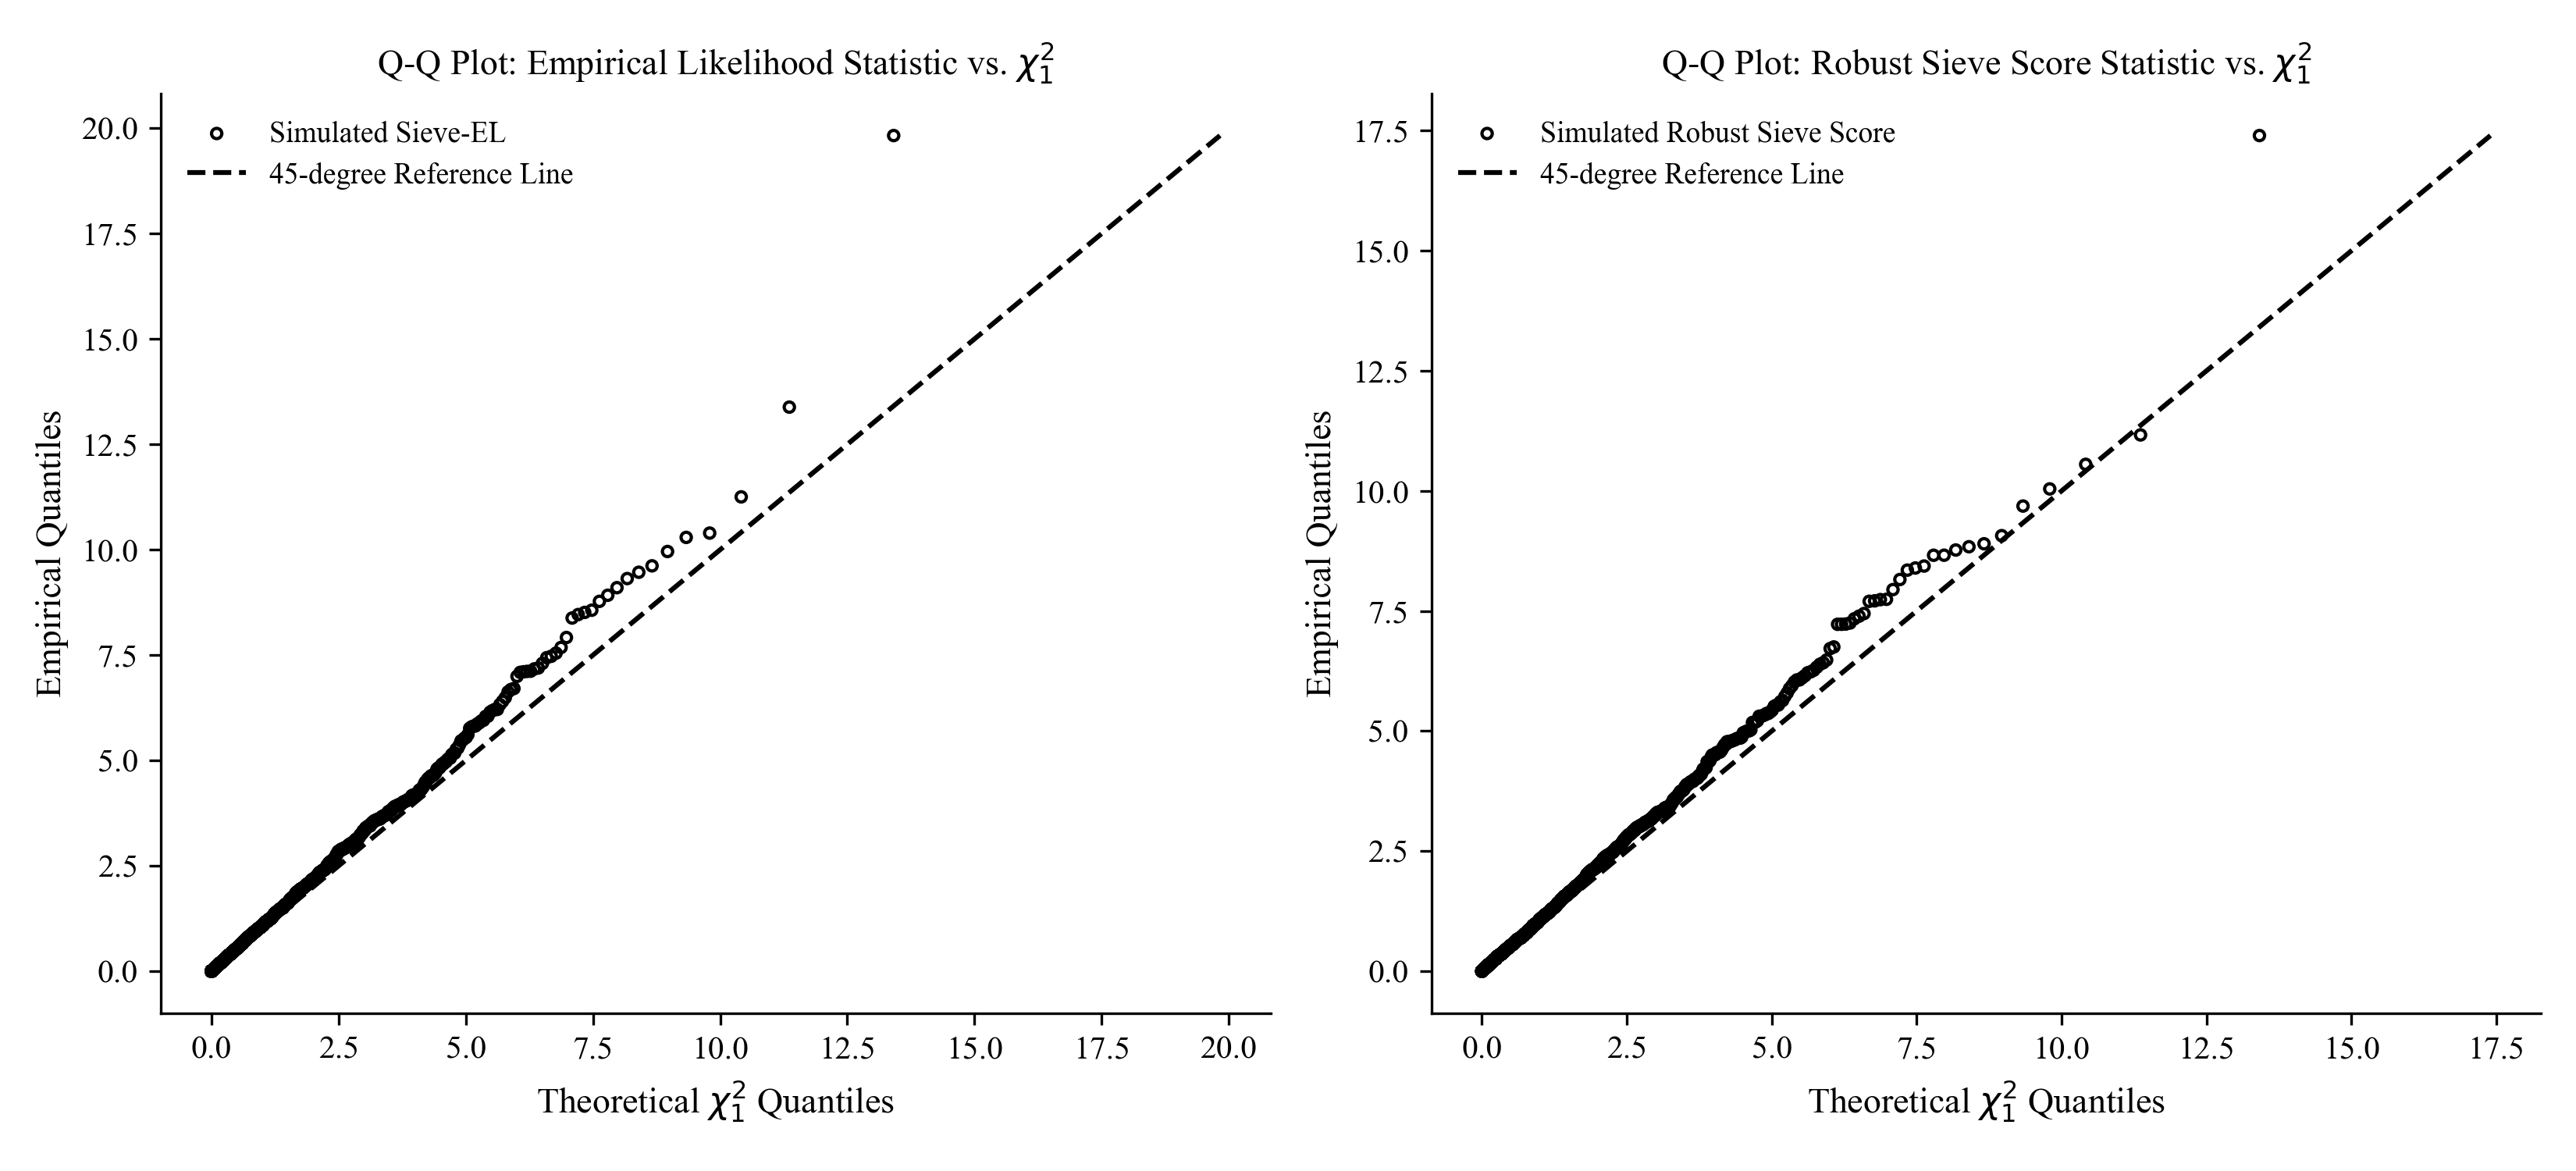
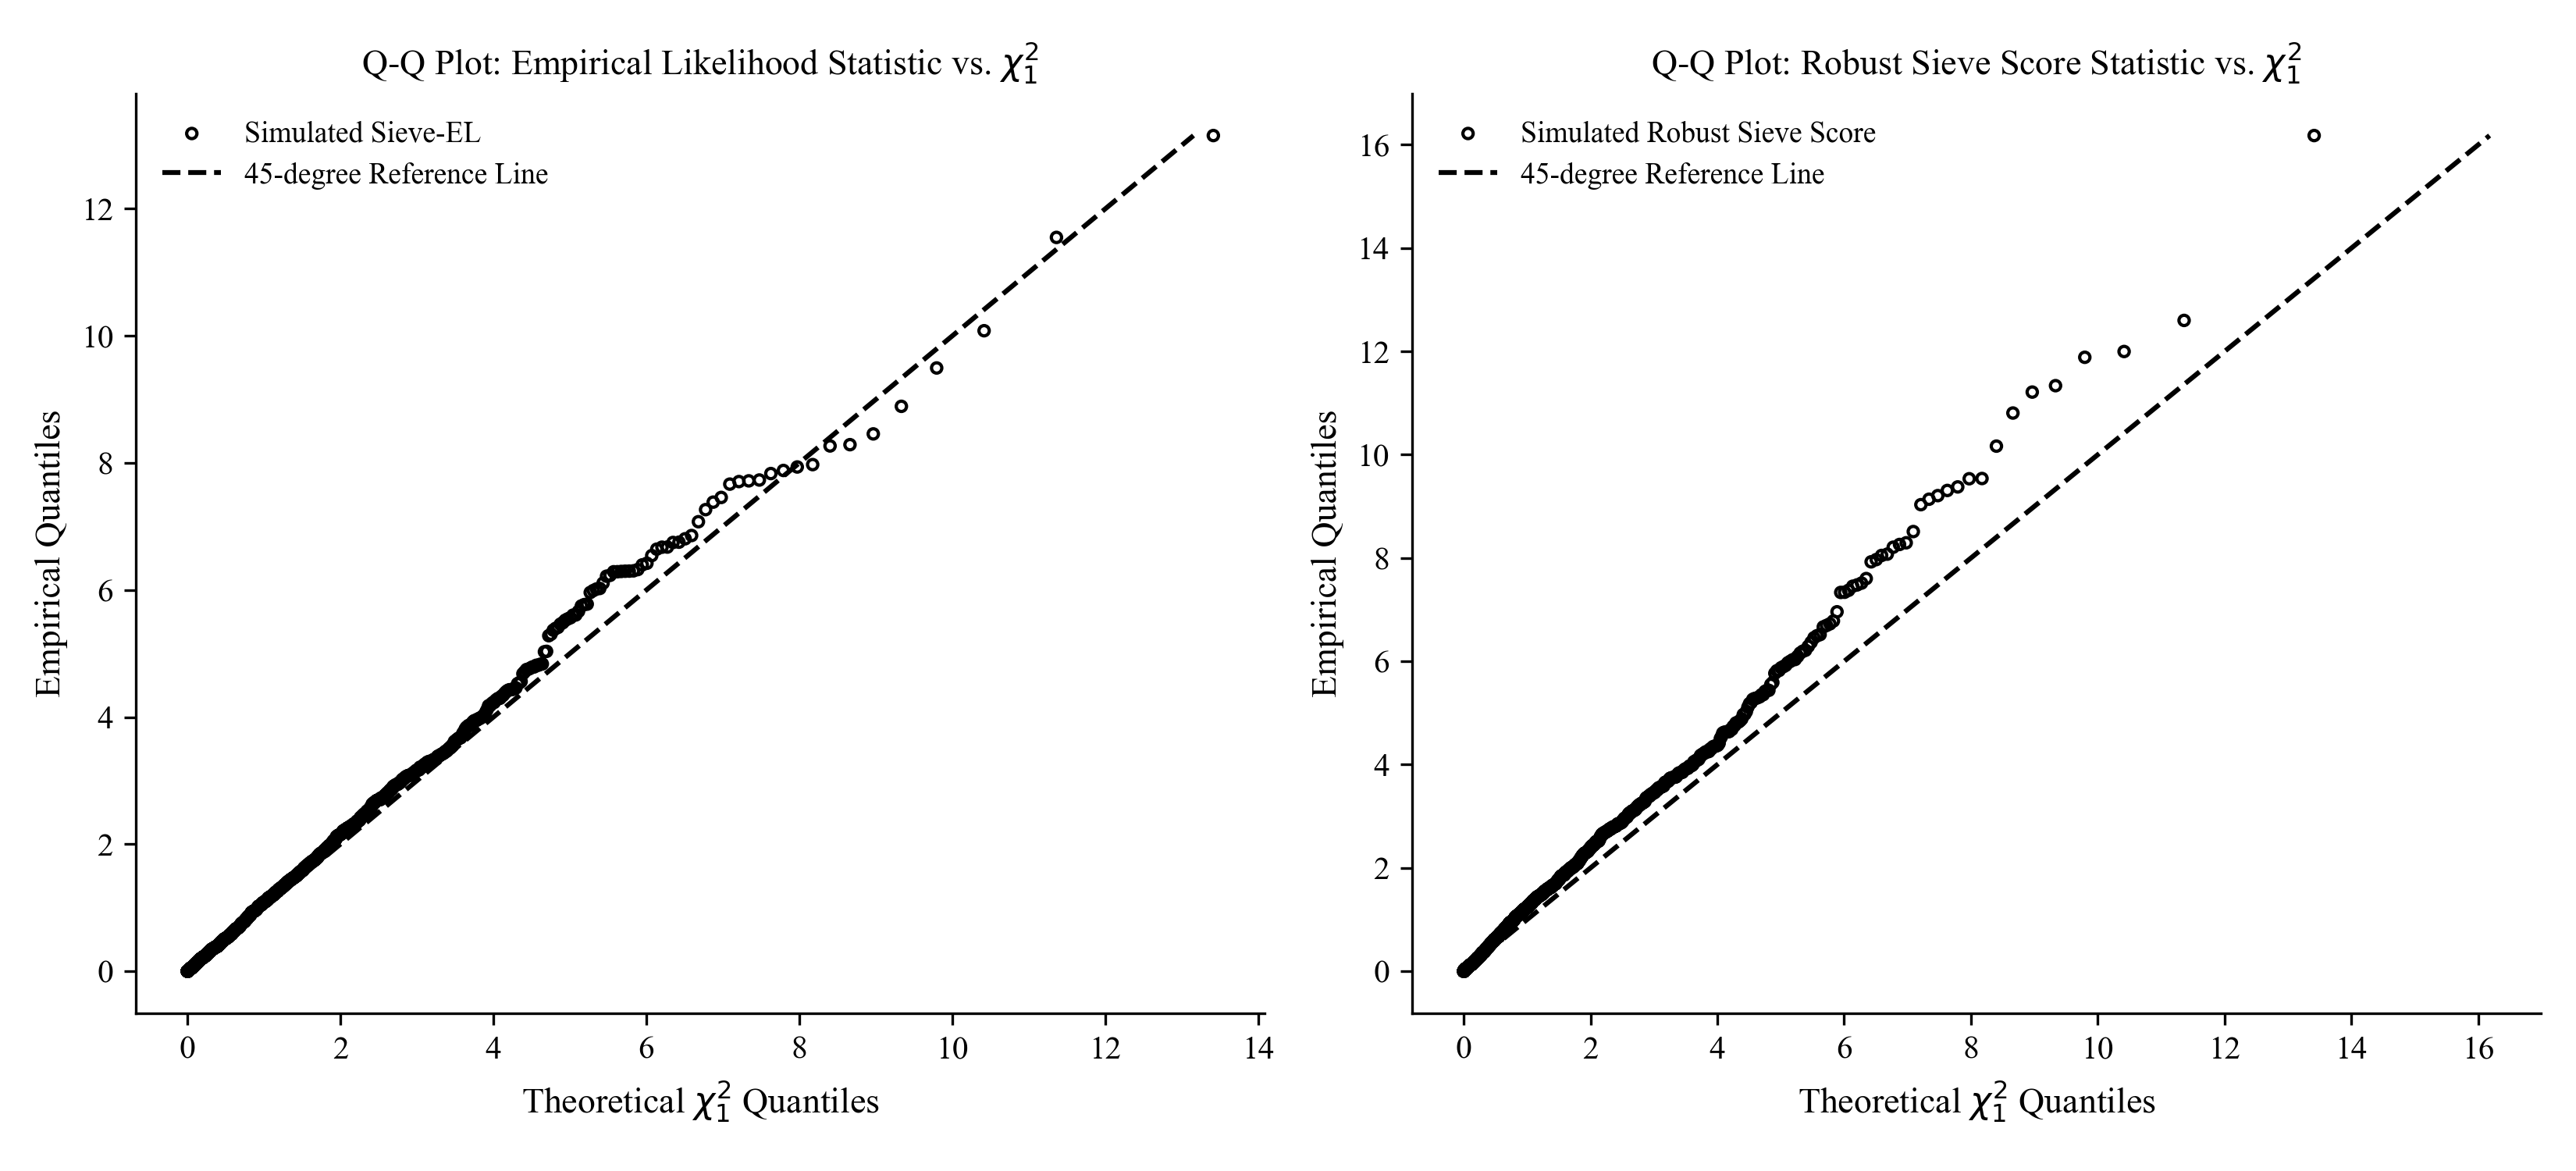
chisq MC

diff --git a/plot_qq_convergence.py b/plot_qq_convergence.py
@@ -1,0 +1,106 @@
+import numpy as np
+import scipy.stats as stats
+import matplotlib.pyplot as plt
+import multiprocessing as mp
+import time
+from functools import partial
+from mc_sieve_el import SimulatedDGP, BSplineSieve, SieveELEstimator
+
+def run_single_null_replication(seed: int, T: int, rho: float, phi: float, K: int) -> tuple:
+    dgp = SimulatedDGP(T=T, rho=rho, beta=0.0, phi=phi, seed=seed)
+    basis = BSplineSieve(K, degree=3)
+    estimator = SieveELEstimator(basis)
+    l_T = estimator.fit(dgp, beta_0=0.0)
+    s_T = estimator.fit_robust_score(dgp, beta_0=0.0)
+    return l_T, s_T
+
+def run_simulations_for_T(T: int, K: int, iterations: int):
+    rho = 0.99
+    phi = 0.5
+    seeds = np.random.randint(0, 10000000, size=iterations)
+    func = partial(run_single_null_replication, T=T, rho=rho, phi=phi, K=K)
+    
+    with mp.Pool(mp.cpu_count()) as pool:
+        results = pool.map(func, seeds)
+        
+    el_stats = np.array([r[0] for r in results])
+    score_stats = np.array([r[1] for r in results])
+    
+    # Filter valid
+    valid_el = el_stats[el_stats < 1e5]
+    valid_score = score_stats[score_stats < 1e5]
+    
+    return valid_el, valid_score
+
+def main():
+    Ts = [1000, 2000, 3000, 4000, 5000]
+    iterations = 1000
+    results = {}
+    
+    print(f"Running Q-Q convergence simulations with B-Splines (T={Ts}, iterations={iterations})...")
+    
+    for T in Ts:
+        K = int(np.round(T**(1/3)))
+        t0 = time.time()
+        valid_el, valid_score = run_simulations_for_T(T, K, iterations)
+        t1 = time.time()
+        print(f"T = {T} (K={K}) completed in {t1 - t0:.2f} seconds. Valid EL: {len(valid_el)}, Valid Score: {len(valid_score)}")
+        results[T] = (valid_el, valid_score)
+        
+    # Set academic plotting style
+    plt.rcParams.update({
+        'font.family': 'serif',
+        'font.serif': ['Times New Roman', 'DejaVu Serif'],
+        'axes.grid': False,
+        'axes.spines.top': False,
+        'axes.spines.right': False,
+        'lines.linewidth': 1.2,
+        'font.size': 10,
+        'axes.labelsize': 11,
+        'axes.titlesize': 11,
+        'legend.fontsize': 9
+    })
+    
+    fig, axes = plt.subplots(2, 5, figsize=(22, 9))
+    
+    for idx, T in enumerate(Ts):
+        valid_el, valid_score = results[T]
+        K = int(np.round(T**(1/3)))
+        
+        # 1. Sieve-EL Q-Q Plot
+        ax_el = axes[0, idx]
+        n_el = len(valid_el)
+        empirical_el = np.sort(valid_el)
+        theoretical_el = stats.chi2.ppf((np.arange(1, n_el + 1) - 0.5) / n_el, df=1)
+        
+        ax_el.scatter(theoretical_el, empirical_el, facecolors='none', edgecolors='k', s=15, label=f'T = {T}')
+        max_val_el = max(np.max(valid_el), stats.chi2.ppf(0.99, df=1))
+        ax_el.plot([0, max_val_el], [0, max_val_el], 'k--', alpha=0.7)
+        ax_el.set_xlabel('Theoretical $\\chi^2_1$ Quantiles')
+        if idx == 0:
+            ax_el.set_ylabel('Empirical Quantiles (Sieve-EL)')
+        ax_el.set_title(f'Sieve-EL ($T = {T}$, $K = {K}$)')
+        ax_el.legend(frameon=False, loc='upper left')
+        
+        # 2. Robust Sieve Score Q-Q Plot
+        ax_score = axes[1, idx]
+        n_score = len(valid_score)
+        empirical_score = np.sort(valid_score)
+        theoretical_score = stats.chi2.ppf((np.arange(1, n_score + 1) - 0.5) / n_score, df=1)
+        
+        ax_score.scatter(theoretical_score, empirical_score, facecolors='none', edgecolors='k', s=15, label=f'T = {T}')
+        max_val_score = max(np.max(valid_score), stats.chi2.ppf(0.99, df=1))
+        ax_score.plot([0, max_val_score], [0, max_val_score], 'k--', alpha=0.7)
+        ax_score.set_xlabel('Theoretical $\\chi^2_1$ Quantiles')
+        if idx == 0:
+            ax_score.set_ylabel('Empirical Quantiles (Score)')
+        ax_score.set_title(f'Robust Sieve Score ($T = {T}$, $K = {K}$)')
+        ax_score.legend(frameon=False, loc='upper left')
+        
+    plt.tight_layout()
+    plt.savefig('qq_convergence_plot.png', dpi=300)
+    print("Academic Q-Q convergence plot with B-Splines saved as 'qq_convergence_plot.png'.")
+
+if __name__ == "__main__":
+    mp.freeze_support()
+    main()

diff --git a/mc_sieve_el.py b/mc_sieve_el.py
@@ -1,6 +1,7 @@
 import numpy as np
 import scipy.optimize as opt
 from scipy.special import eval_legendre
+from scipy.interpolate import BSpline
 import multiprocessing as mp
 import time
 import matplotlib.pyplot as plt
@@ -125,9 +126,44 @@ class LegendreSieve(SieveBasis):
         return P_K
 
 class BSplineSieve(SieveBasis):
+    def __init__(self, K: int, degree: int = 3):
+        super().__init__(K)
+        self.degree = degree
+
     def construct(self, W: np.ndarray) -> np.ndarray:
-        """Placeholder for B-Spline implementation to expand modularity."""
-        raise NotImplementedError("B-Spline basis to be implemented.")
+        T = len(W)
+        K = self.K
+        degree = self.degree
+        
+        # Ensure degree is compatible with K
+        if K < degree + 1:
+            degree = K - 1
+            
+        n_internal = K - degree - 1
+        
+        # Place internal knots at quantiles of W
+        if n_internal > 0:
+            qs = np.linspace(0, 100, n_internal + 2)[1:-1]
+            knots_internal = np.percentile(W, qs)
+        else:
+            knots_internal = []
+            
+        W_min, W_max = np.min(W), np.max(W)
+        # Add boundary knots with small offsets to prevent out-of-bounds evaluation issues
+        knots = np.concatenate([
+            [W_min - 1e-4] * (degree + 1),
+            knots_internal,
+            [W_max + 1e-4] * (degree + 1)
+        ])
+        
+        P_K = np.zeros((T, K))
+        for i in range(K):
+            coefs = np.zeros(K)
+            coefs[i] = 1.0
+            spl = BSpline(knots, coefs, degree, extrapolate=True)
+            P_K[:, i] = spl(W)
+            
+        return P_K
 
 # =============================================================================
 # 3. Estimation Core Algorithm
@@ -217,7 +253,8 @@ class SieveELEstimator:
         # Step 5: Compute Robust Score
         Z = (Y_adj - beta_0 * X_lag) * w_c
         num = np.sum(Z)
-        den = np.sum((U_hat * w_c) ** 2)
+        df_corr = len(Y) / (len(Y) - P_K.shape[1] - 2)
+        den = np.sum((U_hat * w_c) ** 2) * df_corr
         
         if den == 0:
             return 0.0

diff --git a/writing_samples/brainstorming_v2.0_AR1.tex b/writing_samples/brainstorming_v2.0_AR1.tex
@@ -5,8 +5,8 @@
 
 \begin{document}
 
-\title{Nonparametric Predictive Regression with Exogenous Shocks: A Sieve Empirical Likelihood Approach (Version 2.0 AR1)}
-\author{}
+\title{Nonparametric Predictive Regression with Exogenous Shocks: A Sieve Empirical Likelihood Approach (In progress Version 2.0 AR1)}
+\author{Siyan Dong}
 \date{\today}
 \maketitle
 
@@ -40,20 +40,20 @@ Motivated by Perron (1989), our goal is to investigate return predictability whi
 
 By extending the empirical likelihood (EL) framework of Cai et al. (2026), we propose a two-stage Orthogonalized Sieve-EL framework that achieves a standard $\chi^2_1$ limiting distribution under the null.
 
-\section{Motivating Empirical Example: El Ni\~no and Cocoa Futures Returns}
+\section{Empirical Motivation: Weather Shocks and Cocoa Futures}
 
-To illustrate the practical relevance of our proposed framework, we present an empirical scenario motivated by the agricultural commodity market shocks of 2023--2024. Let $Y_t$ denote the excess returns on cocoa futures contracts, $W_{t-1}$ represent an exogenous climatic indicator such as the Oceanic Ni\~no Index (ONI) measuring El Ni\~no-Southern Oscillation (ENSO) anomalies, and $X_{t-1}$ denote a persistent financial predictor, such as the global commodity speculative net positions or the inventory-to-use ratio. 
+We motivate our framework with the 2023--2024 agricultural commodity shocks. Let $Y_t$ denote excess returns on cocoa futures, $W_{t-1}$ an exogenous local weather variable such as precipitation or average temperature, and $X_{t-1}$ a persistent financial predictor, such as the lagged price. 
 
-During the 2023--2024 period, a historically severe El Ni\~no event induced extreme droughts in West Africa (primarily C\^ote d'Ivoire and Ghana, which account for nearly 60\% of global cocoa supply). This led to a catastrophic supply deficit and triggered an unprecedented rally in cocoa futures, with prices tripling to exceed \$10,000 per metric ton. This setting provides a highly valid and clean empirical application of our model for several key reasons:
+During 2023--2024, extreme weather conditions, including severe droughts in West Africa, led to supply deficits and a substantial increase in cocoa prices. This context illustrates the key features of our model:
 
 \begin{enumerate}
-    \item \textbf{Strict Exogeneity of Weather Shocks:} The climatic shock $W_{t-1}$ is strictly exogenous to the financial markets. The dynamics of ENSO anomalies are governed by global atmospheric and oceanic circulation systems, meaning they are independent of futures trading volume, inventory levels, or financial speculative activity ($X_{t-1}$). Thus, $W_{t-1}$ is strictly independent of $X_s$ for all $t$ and $s$, validating Assumption~A.
+    \item \textbf{Exogeneity of Weather Shocks:} Local weather variables ($W_{t-1}$) are determined by atmospheric systems, exogenous to financial variables ($X_{t-1}$) such as trading volume or lagged prices. Thus, $W_{t-1}$ and $X_{t-1}$ are independent, satisfying Assumption~A.
     
-    \item \textbf{Nonlinear Climate-Yield Relationship:} The impact of temperature and rainfall anomalies on cocoa production is highly nonlinear. Mild deviations in ONI may have negligible effects due to soil moisture buffering, whereas extreme anomalies exceeding threshold levels lead to severe crop disease (e.g., black pod disease) and crop failure. A linear specification would fail to capture this threshold-like behavior, necessitating a nonparametric formulation $m(W_{t-1})$ that can be flexibly approximated using the sieve basis in our first step.
+    \item \textbf{Nonlinear Weather Impact:} The effect of temperature and rainfall on crop yield is highly nonlinear, with extreme weather deviations causing disproportionate impacts on supply. A nonparametric formulation $m(W_{t-1})$ is necessary to capture this threshold behavior, which we approximate using a sieve basis.
     
-    \item \textbf{High Persistence of the Financial Predictor:} Financial predictors like inventory-to-use ratios or speculative interest rates are highly persistent and are often modeled as near unit root processes (i.e., $\rho \approx 1$). Performing standard OLS inference on $\beta$ in the presence of $m(W_{t-1})$ and a persistent $X_{t-1}$ would generate severe size distortions.
+    \item \textbf{Predictor Persistence:} Financial predictors ($X_{t-1}$) often exhibit near unit root behavior ($\rho \approx 1$). Standard OLS inference on $\beta$ with $m(W_{t-1})$ and persistent $X_{t-1}$ leads to size distortions.
     
-    \item \textbf{Separability and the Orthogonalized Sieve-EL Solution:} Our proposed framework allows the researcher to first filter out the complex, nonlinear weather impact $m(W_{t-1})$ using the sieve projection (Step 1). Because $W_{t-1}$ and $X_{t-1}$ are independent, this projection is consistent. By subsequently centering the financial predictor's weights against the sieve basis, we purge the estimation error of the weather curve from the empirical likelihood moment condition. This enables valid, standard $\chi^2_1$-based inference on the predictive power $\beta$ of the persistent financial variable.
+    \item \textbf{Orthogonalized Sieve-EL Application:} Our framework first filters the nonlinear weather impact $m(W_{t-1})$ via sieve projection. The independence of $W_{t-1}$ and $X_{t-1}$ ensures consistency. Centering the predictor's weights against the sieve basis purges the nonparametric estimation error from the EL moment condition, allowing for standard $\chi^2_1$ inference on $\beta$.
 \end{enumerate}
 
 \section{The Orthogonalized Sieve-EL Framework (Version 2.0 AR1)}
@@ -71,7 +71,7 @@ Following the methodology of Cai \& Wang (2014), we first isolate the true innov
 \end{equation}
 The OLS estimators for the intercept and persistence parameter are given by:
 \begin{equation}
-    \begin{pmatrix} \widehat{\theta} \\ \widehat{\rho} \end{equation} = \left( \sum_{t=1}^T \begin{pmatrix} 1 \\ X_{t-1} \end{pmatrix} \begin{pmatrix} 1 & X_{t-1} \end{pmatrix} \right)^{-1} \sum_{t=1}^T \begin{pmatrix} 1 \\ X_{t-1} \end{pmatrix} X_t
+    \begin{pmatrix} \widehat{\theta} \\ \widehat{\rho} \end{pmatrix} = \left( \sum_{t=1}^T \begin{pmatrix} 1 \\ X_{t-1} \end{pmatrix} \begin{pmatrix} 1 & X_{t-1} \end{pmatrix} \right)^{-1} \sum_{t=1}^T \begin{pmatrix} 1 \\ X_{t-1} \end{pmatrix} X_t
 \end{equation}
 We then compute and save the estimated residuals, which act as our proxy for the pure financial shock:
 \begin{equation}
@@ -166,7 +166,7 @@ Estimating $K$ parameters in OLS introduces in-sample variance inflation and pot
     \frac{K}{\sqrt{T}} \to 0 \quad \implies \quad K \ll T^{\frac{1}{2}}
 \end{equation}
 
-\subsection{The Golden Ratio}
+\subsection{Growth rate of K}
 Combining these bounds yields the formal asymptotic growth condition:
 \begin{equation}
     T^{\frac{1}{2s}} \ll K \ll T^{\frac{1}{2}}